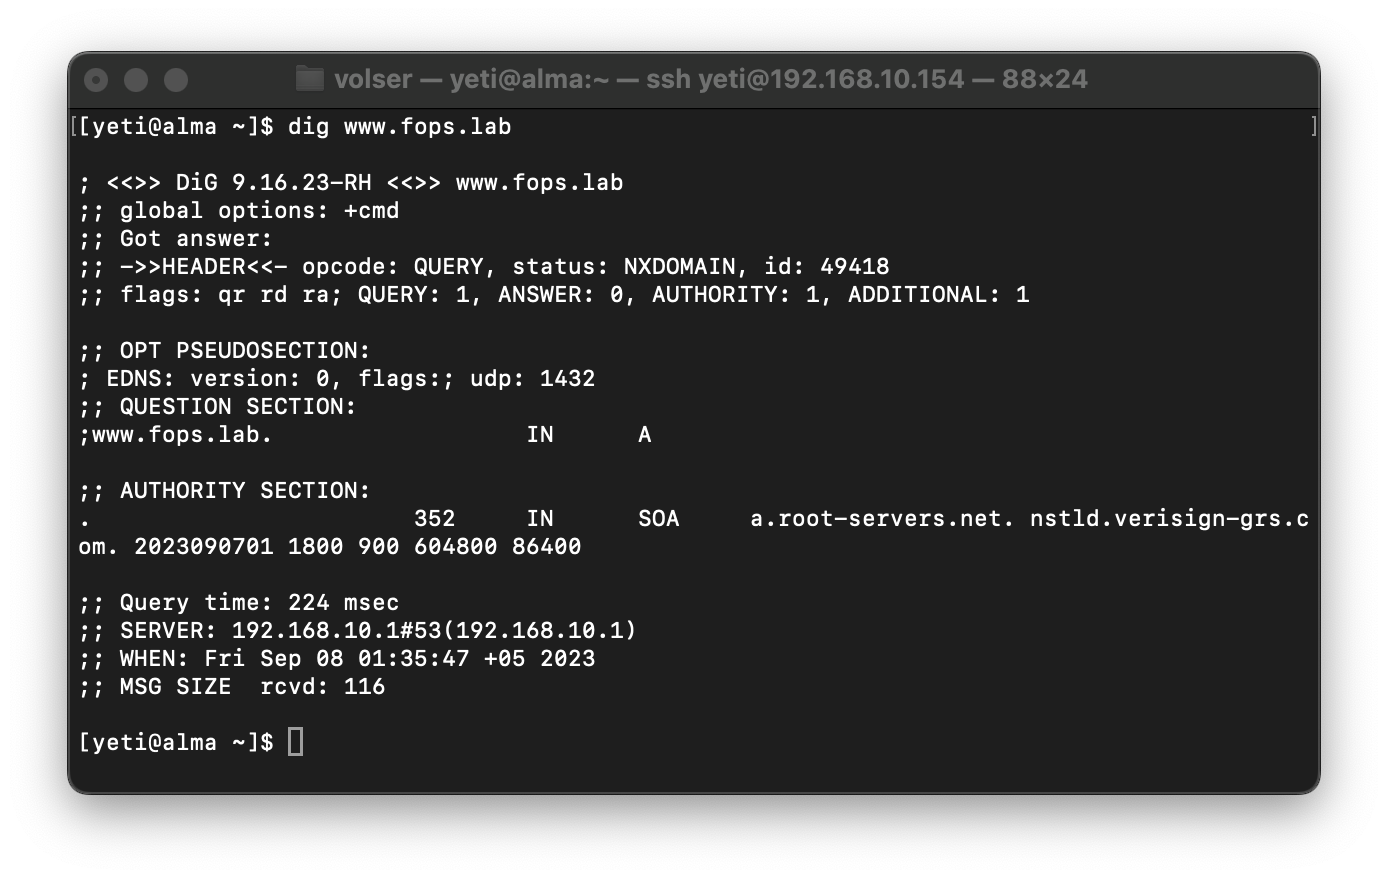
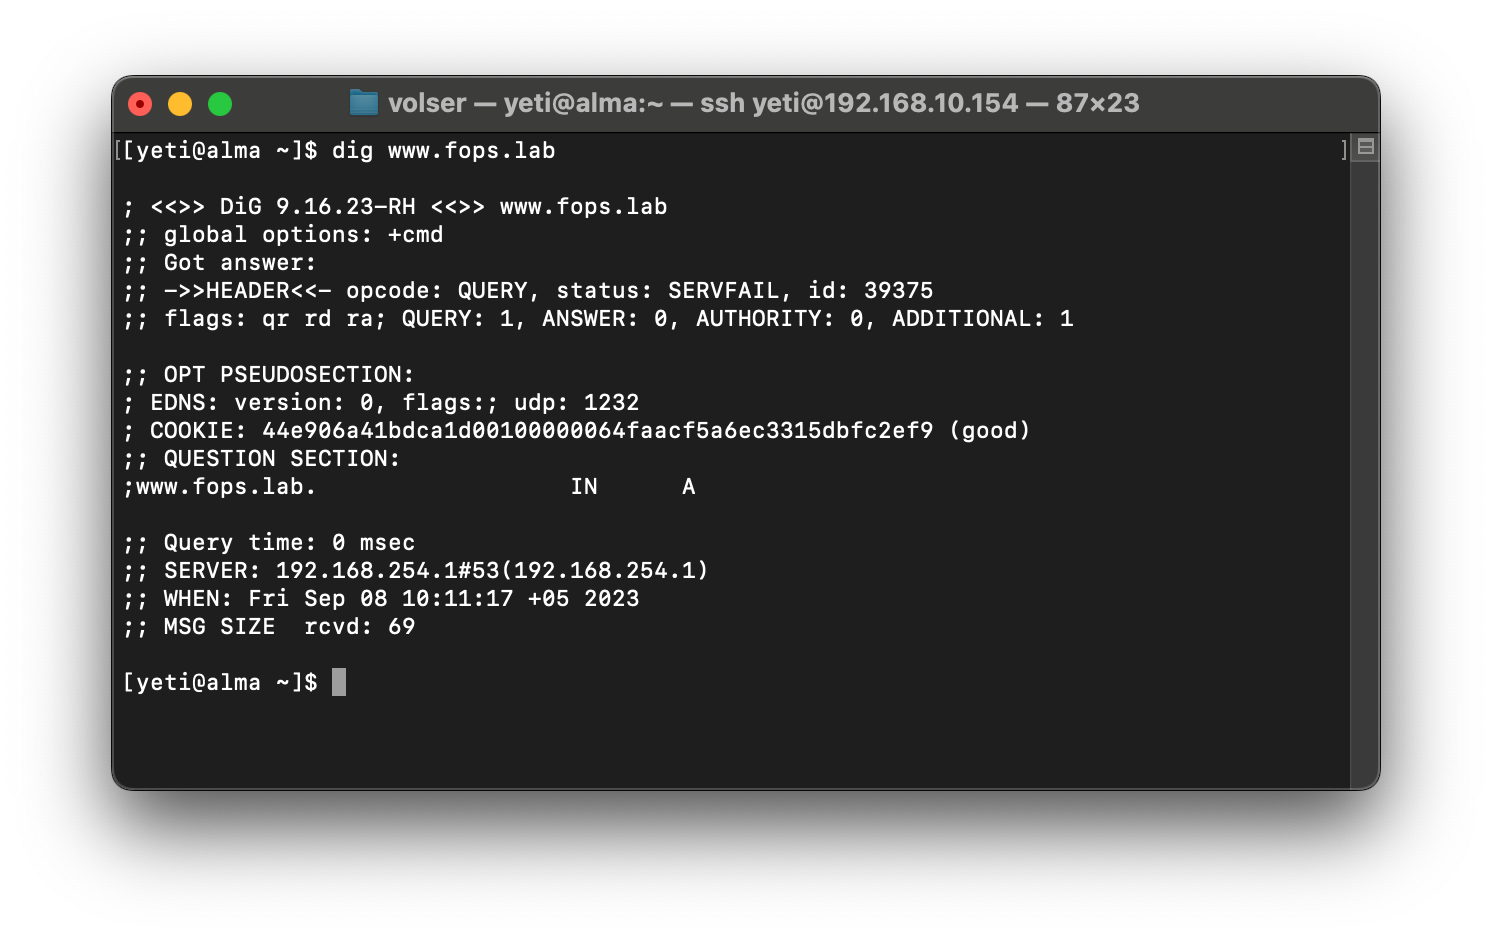
update

Changed region(s): [[0.031, 0.0308, 0.9604, 0.9533], [0.5267, 0.5843, 0.7125, 0.615]]

diff --git a/09. Network/9.7 DNS/.Homework.md b/09. Network/9.7 DNS/.Homework.md
@@ -66,6 +66,17 @@ sudo systemctl enable chronyd --now
 ```
 sudo dnf install bind bind-utils
 ```
+- Установим DNStop - придется подключить репозиторий
+```
+sudo dnf config-manager --set-enabled crb
+```
+```
+sudo dnf install epel-release
+```
+```
+sudo dnf install dnstop
+```
+
 - Сделаем бэкап конфигурационного файла:
 ```
 sudo cp /etc/named.conf  /etc/named.bak
@@ -74,7 +85,7 @@ sudo cp /etc/named.conf  /etc/named.bak
 ```
 sudo nano /etc/named.conf
 ```
-### named.conf находится - [тут](/09.%20Network/9.7%20DNS/named.conf)
+### named.conf с комментариями находится - [тут](/09.%20Network/9.7%20DNS/named.conf)
 
 - Создадим директорию для master зон
 ```
@@ -92,12 +103,35 @@ sudo nano /var/named/master/fops.reverse
 
 ### fops.reverse находится - [тут](/09.%20Network/9.7%20DNS/fops.reverse)
 
-- Создадим директорию логов:
+- Создадим директорию логов и ключей для подписи зон:
 ```
 sudo mkdir /var/log/named/
 ```
+```
+sudo mkdir /var/named/keys/
+```
+### DNSSEC - поддерживается в BIND начиная с версии 9.9
+- Создание ключей DNSSEC - переходим в директорию ключей с правами администратора и генерируем KSK и ZSK ключи:
+```
+sudo su
+```
+```
+cd /var/named/keys
+```
+```
+dnssec-keygen -f KSK -a RSASHA256 -b 4096 -n ZONE fops.lab
+```
+```
+dnssec-keygen -f KSK -a RSASHA256 -b 4096 -n ZONE 254.168.192.in-addr.arpa
+```
+```
+dnssec-keygen -a RSASHA256 -b 2048 -n ZONE fops.lab
+```
+```
+dnssec-keygen -a RSASHA256 -b 2048 -n ZONE 254.168.192.in-addr.arpa
+```
 
-- Добавим правило в файервол и права на файлы зон
+- Добавим правило в файервол и права на файлы зон и ключей
 ```
 sudo firewall-cmd --add-service=dns --permanent
 ```
@@ -108,15 +142,23 @@ sudo firewall-cmd --reload
 sudo chown -R named:named /var/named/master
 ```
 ```
-sudo chmod -R 644 /var/named/master
+sudo chmod -R 774 /var/named/master
 ```
 ```
 sudo chown -R named:named /var/log/named
 ```
 ```
-sudo chmod -R 777 /var/log/named
+sudo chmod -R 774 /var/log/named
 ```
-
+```
+sudo chown -R named:named /var/named/keys
+```
+```
+sudo chmod 774 /var/named/keys/
+```
+```
+sudo chown -R named:named /var/named/keys/
+```
 - Проверим наши настройки
 ```
 sudo named-checkconf
@@ -133,33 +175,40 @@ sudo named-checkzone 254.168.192.in-addr.arpa /var/named/master/fops.reverse
 ```
 sudo systemctl enable --now named.service
 ```
-![screenshot]()
+![screenshot](/09.%20Network/screenshots/named-enable.png)
 
-- Правим конф файл - ставим ip адрес нашего DNS-сервера 
+- Проверяем конф. файл чтобы в нем на первом месте был наш DNS сервер
 ```
 sudo nano /etc/resolv.conf
 ```
-
+- Если за сеть отвечает NetworkManager то он затрет изменения, в таком случае внесем настройки через nmtui
+```
+sudo nmtui
+```
+```
+sudo systemctl restart NetworkManager
+```
 - Проверим работу BIND
 ```
 dig www.fops.lab
 ```
-![screenshot]()
+![screenshot](/09.%20Network/screenshots/named-dig-forward.png)
 
 ```
 dig -x 192.168.254.1
 ```
-![screenshot]()
+![screenshot](/09.%20Network/screenshots/named-dig-reverse.png)
 
+- Теперь до настроим
 ```
 dig DNSKEY fops.lab +multiline
 ```
-![screenshot]()
+![screenshot](/09.%20Network/screenshots/named-dig-dnssec.png)
 
 ```
 dig www.fops.lab. +noadditional +dnssec +multiline
 ```
-![screenshot]()
+![screenshot](/09.%20Network/screenshots/named-dig-dnssec-more.png)
 
 
 ### Задание 2.
@@ -198,3 +247,4 @@ dig www.fops.lab. +noadditional +dnssec +multiline
 1. [Как установить и настроить DNS-сервер BIND на CentOS или Rocky Linux](https://www.dmosk.ru/miniinstruktions.php?mini=bind-centos#logs)
 1. [Настройка DNSSEC на BIND](https://www.dmosk.ru/miniinstruktions.php?mini=dnssec-bind)
 1. [Настраиваем отказоустойчивый DNS-сервер на базе BIND 9](https://interface31.ru/tech_it/2022/10/nastraivaem-otkazoustoychivyy-dns-server-na-baze-bind-9.html)
+1. [Настройка DNSSEC в Bind 9.9+](https://lyalyuev.info/2019/03/12/dnssec-bind9-9/)
